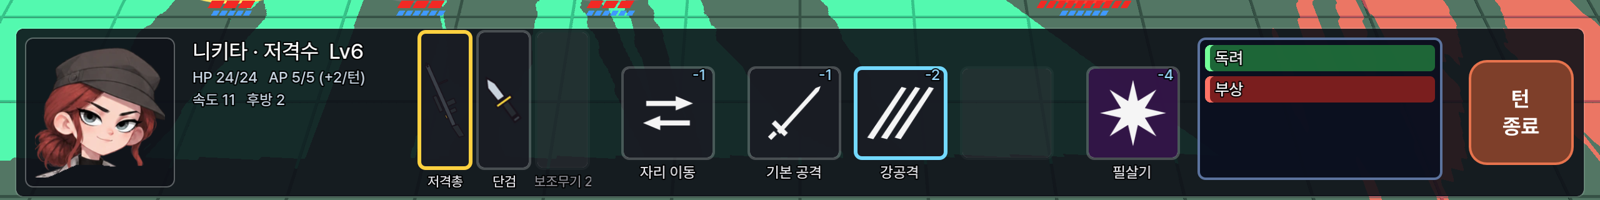
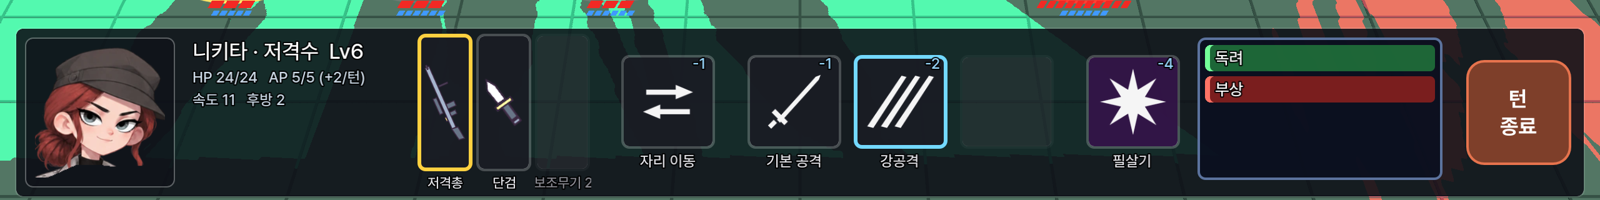
하단 HUD: 무기 아이콘 밝게, 슬롯 아이콘+이름 위/아래 대칭, 턴 종료 왼쪽 2px
- 무기 아이콘: 세로 칸용으로 돌릴 때 밝기 보정 (adjust_bcs 2.8)
- 슬롯: 위 빈 칸 제거, 버튼+이름 덩어리를 세로 가운데. 글자 박스 아래 빈 줄만큼 줄을 4px
  내려 보이는 위/아래 여백 대칭 (실측 차이 1.5px 이내), 가로 위치는 그대로
- 턴 종료 오른쪽 여백 1 → 3px (battle_hud.tscn·코드 기본값 모두)

Claude-Session: https://claude.ai/code/session_014aytw3hj7boqn3SZ5GP5ti

diff --git a/docs/design/00_decision_log_v1_0.md b/docs/design/00_decision_log_v1_0.md
@@ -30,6 +30,7 @@
   - 기본 스킬 3칸: 아이콘 + 아래 이름, 호버 시 효과 설명. 필살기 1칸: 호버 시 효과 설명. 우상단 숫자 = AP 비용.
 - 캐릭터 위 이름 표시 제거 (2026-10-26). 카메라 각도·거리·화각·바라보는 점·화면 위치는 `battle_2d.tscn` View 노드 인스펙터에서 조절 (실행 중 원격 탭에서도 즉시 반영).
 - UI·아이콘·초상화 아트 규격: `docs/ui_art_spec.md`.
+- 하단 슬롯은 **아이콘+이름 덩어리**가 패널 세로 가운데(보이는 위/아래 여백 대칭), 무기 아이콘 밝게 보정, 턴 종료 오른쪽 여백 3px (2026-10-26).
 - HUD 배치는 `scenes/battle_hud.tscn` 노드로 저장 → Godot 에디터에서 직접 위치 편집 (2026-10-26). 코드는 이름으로 노드를 찾아 연결만 함.
 - 선공 동전 연출 (2026-10-26): 일반 전투 시작 시 화면 아래에서 3D 금화가 튀어 올라 오른쪽으로 돌다 떨어짐.
   **앞면 = 고양이 새김 = 아군 선공, 뒷면 = 아무것도 없는 매끈한 면 = 적 선공.** 착지 후 "아군 선공"/"적 선공" 글자를 잠깐 띄움. 연출이 끝난 뒤 첫 라운드 시작 (기습·매복은 동전 없음).

diff --git a/docs/ui_art_spec.md b/docs/ui_art_spec.md
@@ -18,7 +18,7 @@
 | 슬롯 | 논리 칸 크기 | 아이콘 영역 | 권장 원본 | 그리기 규칙 |
 |---|---|---|---|---|
 | 스킬 · 자리 이동 · 필살기 | 75×75 | 61×61 (사방 7px 안쪽) | **256×256** | 흰색(#F5F5F5) 단색 글리프. **글리프는 정가운데, 위/아래·좌/우 여백 대칭**, 캔버스의 약 90% 안에 |
-| 무기 | 44×112 (세로) | 36×104 (사방 4px 안쪽) | **가로 512×146 내외** (약 3.5:1) | 무기를 **가로로(총구·날 끝이 오른쪽)** 그림 → 게임이 90° 돌려 세로 칸에 넣음. 바탕이 어두우니 무기 외곽선·하이라이트를 밝게 |
+| 무기 | 44×110 (세로) | 36×102 (사방 4px 안쪽) | **가로 512×146 내외** (약 3.5:1) | 무기를 **가로로(총구·날 끝이 오른쪽)** 그림 → 게임이 90° 돌려 세로 칸에 넣음. 게임이 밝기 ×2.8 보정(어두운 칸 바탕용) — 밝게 그린 원본은 보정값을 낮출 것 |
 | AP 비용 표기 | 글자 12pt | — | — | 코드가 "-N" 으로 그림 (사용 가능 파랑 / 불가 빨강) |
 | 칸 이름 | 글자 12pt (무기 11pt) | 칸 아래 16px | — | 코드가 그림 |
 

diff --git a/docs/design/PROTOTYPE_GDD_v1_0.md b/docs/design/PROTOTYPE_GDD_v1_0.md
@@ -4,7 +4,7 @@
 
 ## 0. 현재 구현 반영 (변경될 때마다 갱신)
 > 아래는 원 기획 이후 사용자 결정으로 바뀐 내용. 상세 결정 이력은 `00_decision_log_v1_0.md`, 아트 규격은 `../ui_art_spec.md`.
-> 마지막 갱신: 2026-10-26
+> 마지막 갱신: 2026-10-26 (하단 슬롯 위/아래 대칭, 무기 아이콘 밝기 보정)
 
 - **표현**: 캐릭터 2D(Skeleton2D 컷아웃 리그, 원화 기반) + 배경 3D(실광원·그림자). 3D 캐릭터 전환 기능은 제거.
 - **카메라**: 뒤로 물러나 40° 내려다보는 원근, 전투 내내 전체 구도 고정(차례 줌 없음). `battle_2d.tscn` → View 노드 인스펙터에서 각도·거리·화각·바라보는 점·화면 위치 조절.
